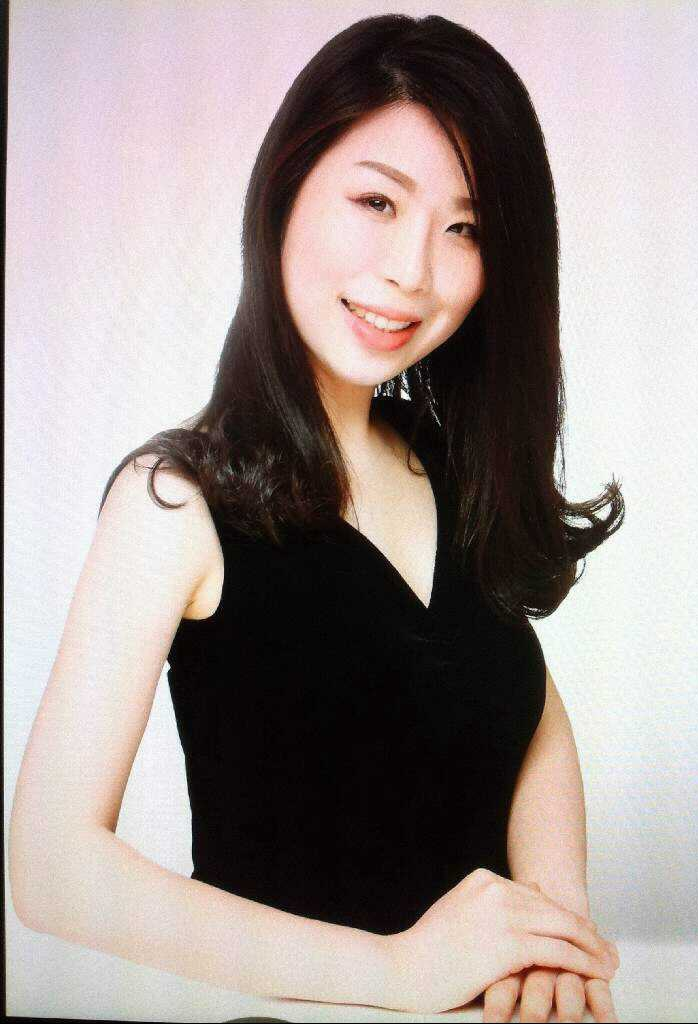
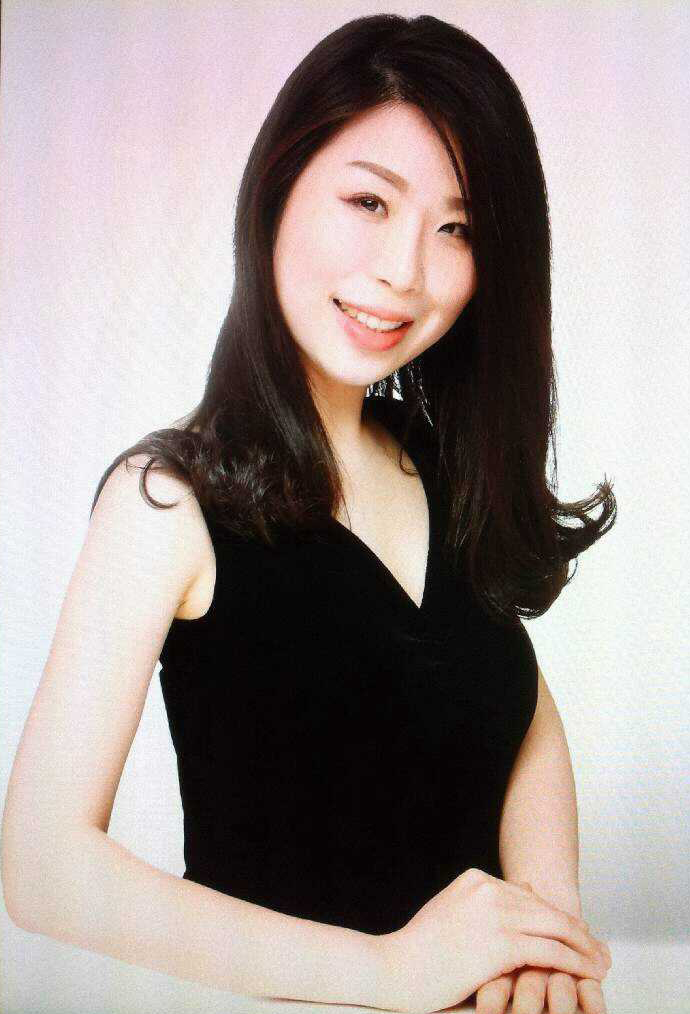
후원자 추가 및 반주자 사진 업데이트

diff --git a/index.html b/index.html
@@ -364,7 +364,7 @@
         <div class="bio">
           <h4>팝페라듀오 · 미니조이</h4>
           <ul class="bullets">
-            <li>소프라노 황보민과 유튜버 ‘데일리조이’로 잘 알려진 소프라노 최지견으로 구성된 여성 팝페라 듀오 미니조이는 따뜻한 감성과 세련된 감각으로 클래식과 팝의 경계를 넘나들며,
+            <li>소프라노 황보민과 유튜버 ‘데일리조이’로 잘 알려진 소프라노 최지견으로 구성된 여성 팝페라듀오 미니조이는 따뜻한 감성과 세련된 감각으로 클래식과 팝의 경계를 넘나들며,
               서정적인 보컬 하모니와 진정성 있는 무대로 관객의 마음을 울립니다.<br>SABT Entertainment 소속으로, 다양한 분야에서 활발히 활동하고 있으며,
               음악을 통해 ‘작은 기쁨(Mini Joy)’이 세상에 퍼지기를 꿈꾸는 팀입니다.
             </li>
@@ -429,26 +429,34 @@
           ✦ 신산커피 하우스/ ㈜ GMCW (이사회 의장 김현철 61회)<br>
           ✦ 주식회사 엘드림 종합건설 (대표 조일상 63회)<br>
           ✦ J & K INTERNATIONAL (대표 박세현 64회)<br>
-          ✦ 양정로타리클럽 (회장 김대규 70회)
+          ✦ 양정로타리클럽 (회장 김대규 70회)<br>
+          ✦ 코리아싱어즈(한승훈 70회)
         </p>
       </article>
       <article class="card">
         <h4>Laurel Tree</h4>
         <p>
           ✦ 유제남(61회)<br>
+          ✦ 김준곤(61회)<br>
           ✦ 반석서치㈜ (대표컨설턴트 한승돈 62회)<br>
+          ✦ 박현수(68회)<br>
+          ✦ 전철응(68회)<br>
           ✦ CAFÉ ROASTER’S (대표 이용구 69회)<br>
           ✦ SINGAPORE AIR LINE (부장 오세진 69회)<br>
           ✦ ㈜ 경림 이앤지 (전무 강승엽 70회)<br>
-          ✦ 행복한 경희 한의원 (원장 이승제 78회)<br>
+          ✦ 행복한 경희 한의원 (원장 이승제 78회)
         </p>
       </article>
       <article class="card">
         <h4>Lumen</h4>
         <p>
-          ✦ 조신웅 59회<br>
-          ✦ 김태균 69회<br>
+          ✦ 조신웅 (59회)<br>
+          ✦ 김진섭 (67회)<br>
+          ✦ 채호병 (68회)<br>
+          ✦ 김태균 (69회)<br>
           ✦ 한국 쓰리에이치 주식회사(대표 박용준 78회)<br>
+          ✦ 도한영 (84회)<br>
+          ✦ 이정환 (85회)<br>
           ✦ 배재 코랄 합창단<br>
         </p>
       </article>
